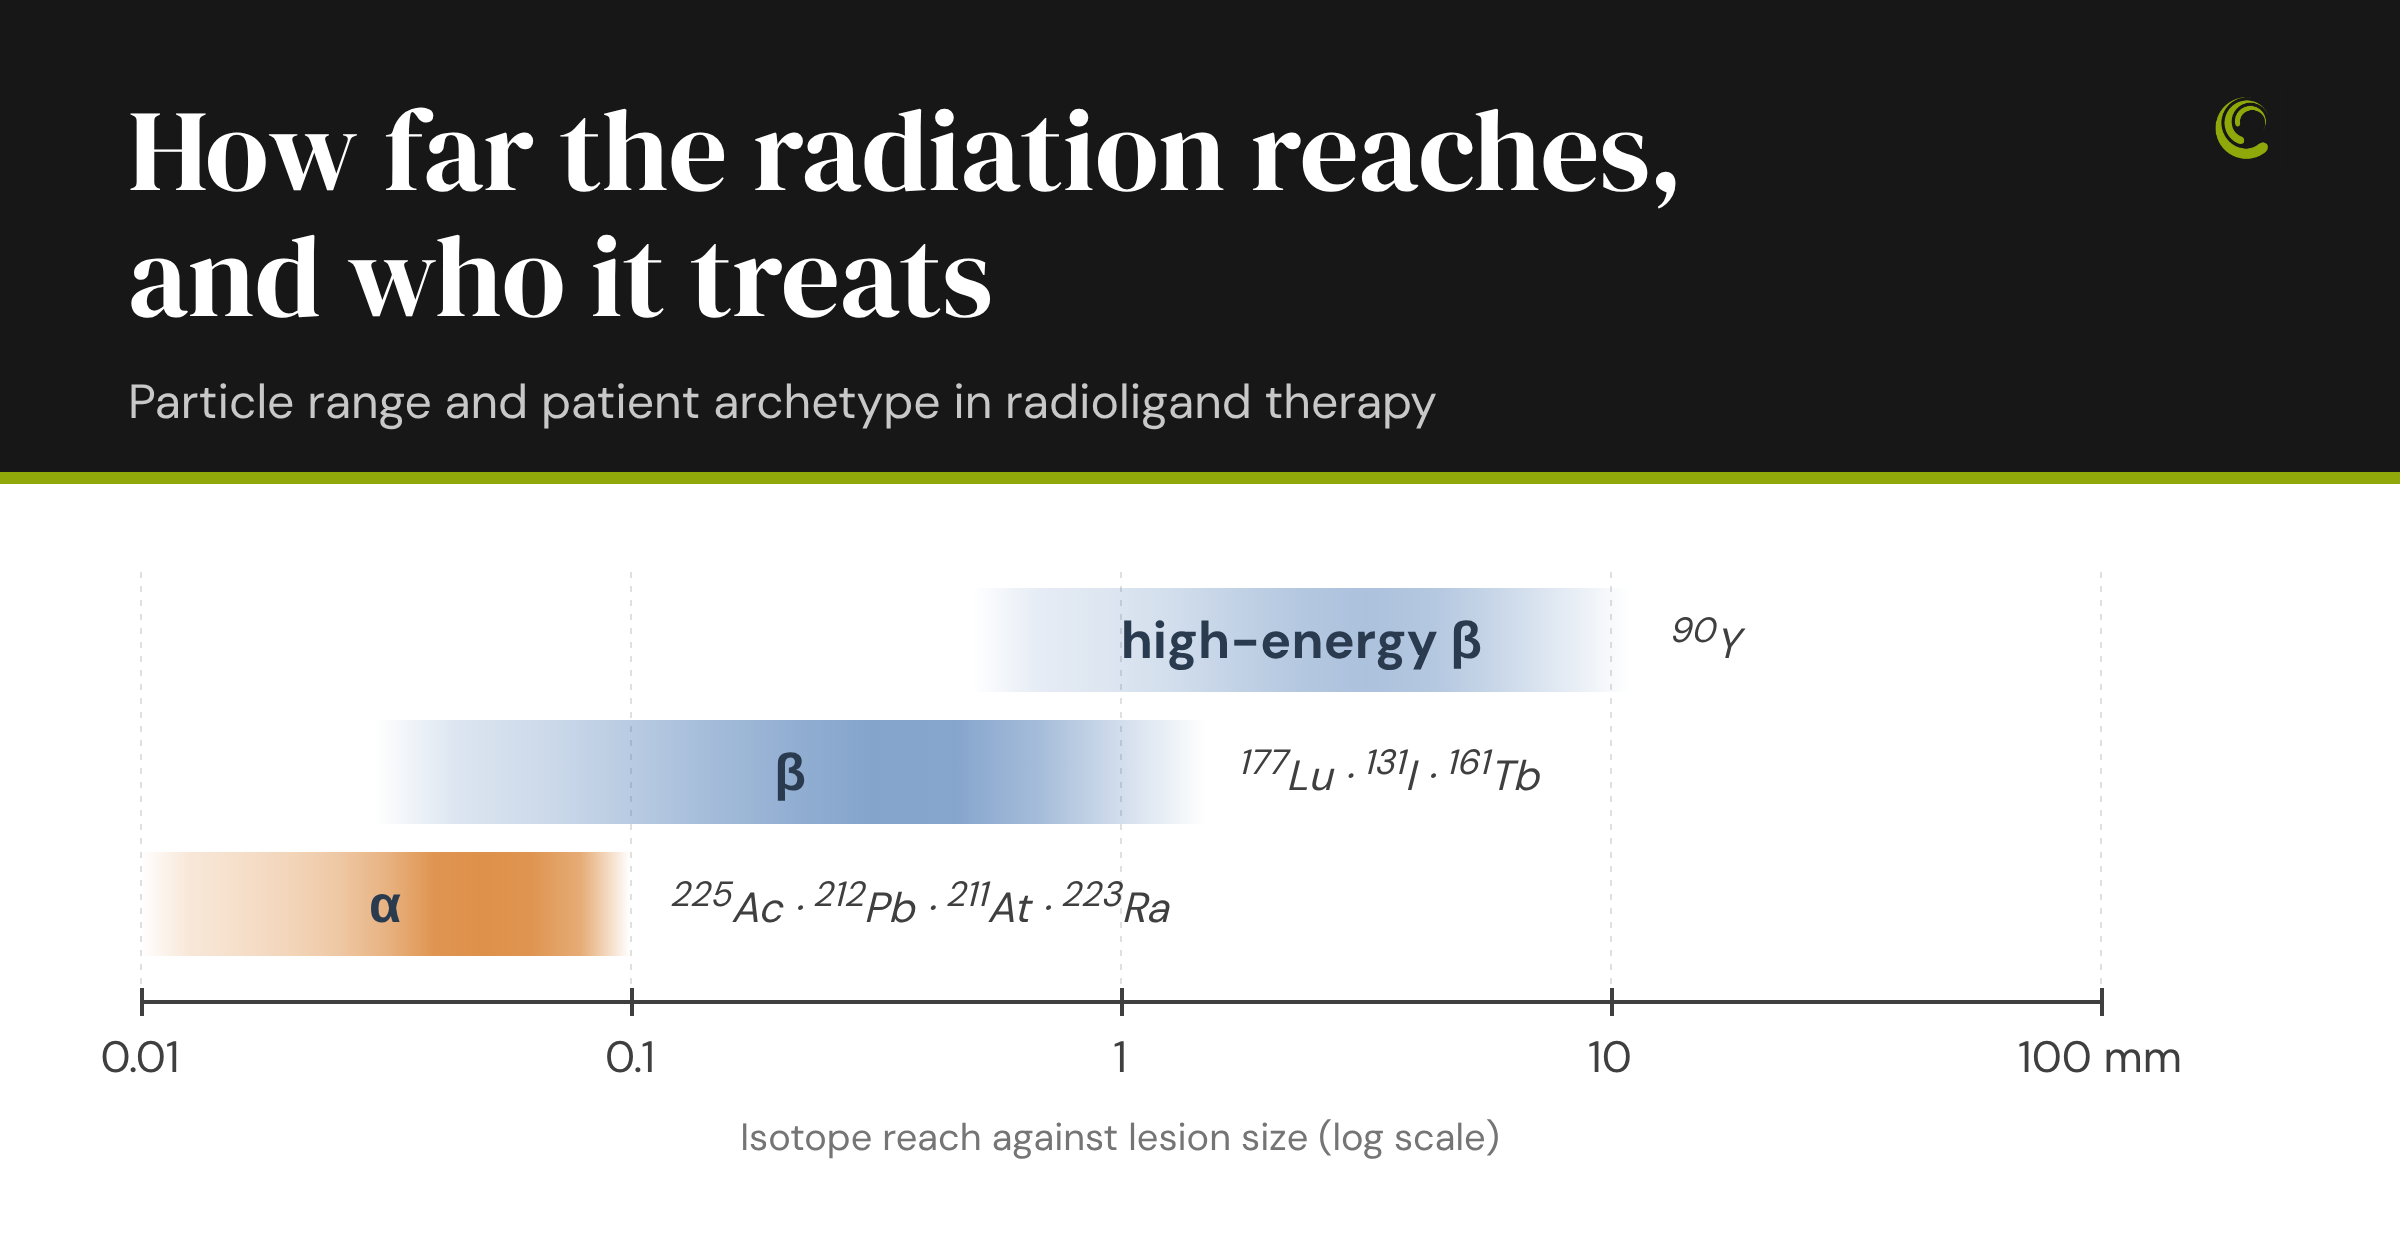
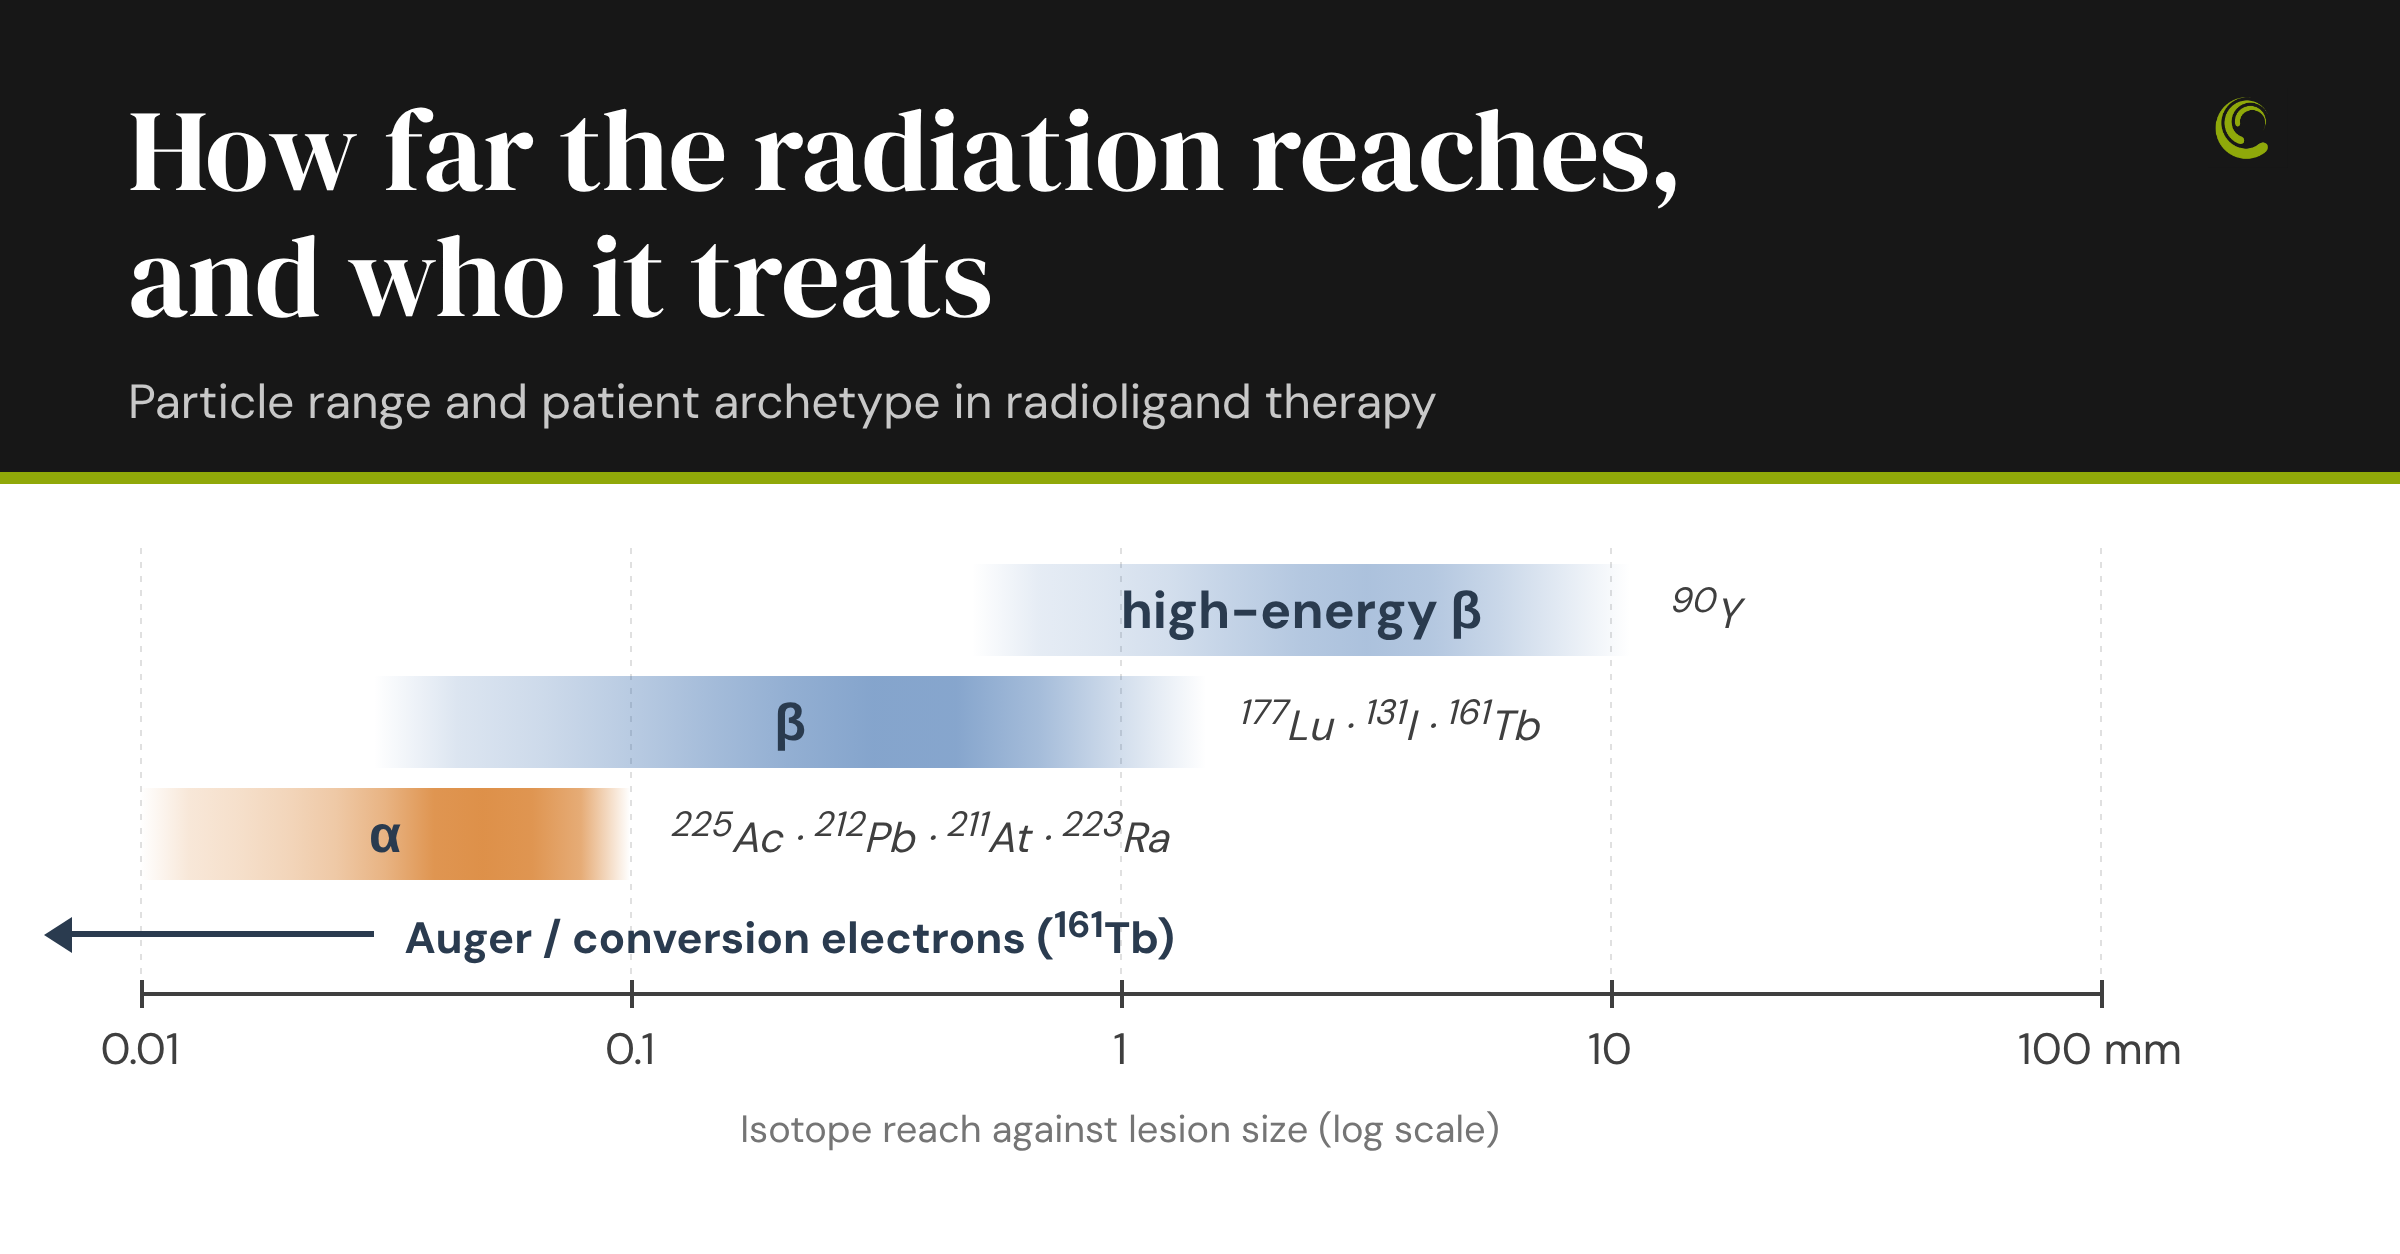
Link preview: add Auger/conversion-electron arrow
The preview card now shows the 161Tb Auger/conversion-electron row like
the main figure: an arrow from ~30 um (conversion-electron reach)
pointing left past 0.01 mm. Image URL bumped to ?v=3; alt text updated.

Claude-Session: https://claude.ai/code/session_01Ke6WNG26M6btUZSPgXhJN4

diff --git a/index.html b/index.html
@@ -13,12 +13,12 @@
 <meta property="og:title" content="How far the radiation reaches, and who it treats">
 <meta property="og:description" content="Particle range and patient archetype in radioligand-therapy (RLT) portfolio decisions. A Consilience whitepaper.">
 <meta property="og:url" content="https://consiliencestrategy.github.io/RLT-particle-range-patient-archetype/">
-<meta property="og:image" content="https://consiliencestrategy.github.io/RLT-particle-range-patient-archetype/preview.png?v=2">
+<meta property="og:image" content="https://consiliencestrategy.github.io/RLT-particle-range-patient-archetype/preview.png?v=3">
 <meta property="og:image:width" content="2400">
 <meta property="og:image:height" content="1254">
-<meta property="og:image:alt" content="Title card: How far the radiation reaches, and who it treats. Reach of alpha, beta and high-energy beta emitters on a lesion-size axis from 0.01 to 100 mm">
+<meta property="og:image:alt" content="Title card: How far the radiation reaches, and who it treats. Reach of alpha, beta, high-energy beta, and Auger/conversion-electron emitters on a lesion-size axis from 0.01 to 100 mm">
 <meta name="twitter:card" content="summary_large_image">
-<meta name="twitter:image" content="https://consiliencestrategy.github.io/RLT-particle-range-patient-archetype/preview.png?v=2">
+<meta name="twitter:image" content="https://consiliencestrategy.github.io/RLT-particle-range-patient-archetype/preview.png?v=3">
 <style>
 
 @import url('https://fonts.googleapis.com/css2?family=DM+Sans:ital,wght@0,400;0,500;0,700&family=DM+Serif+Display&display=swap');
